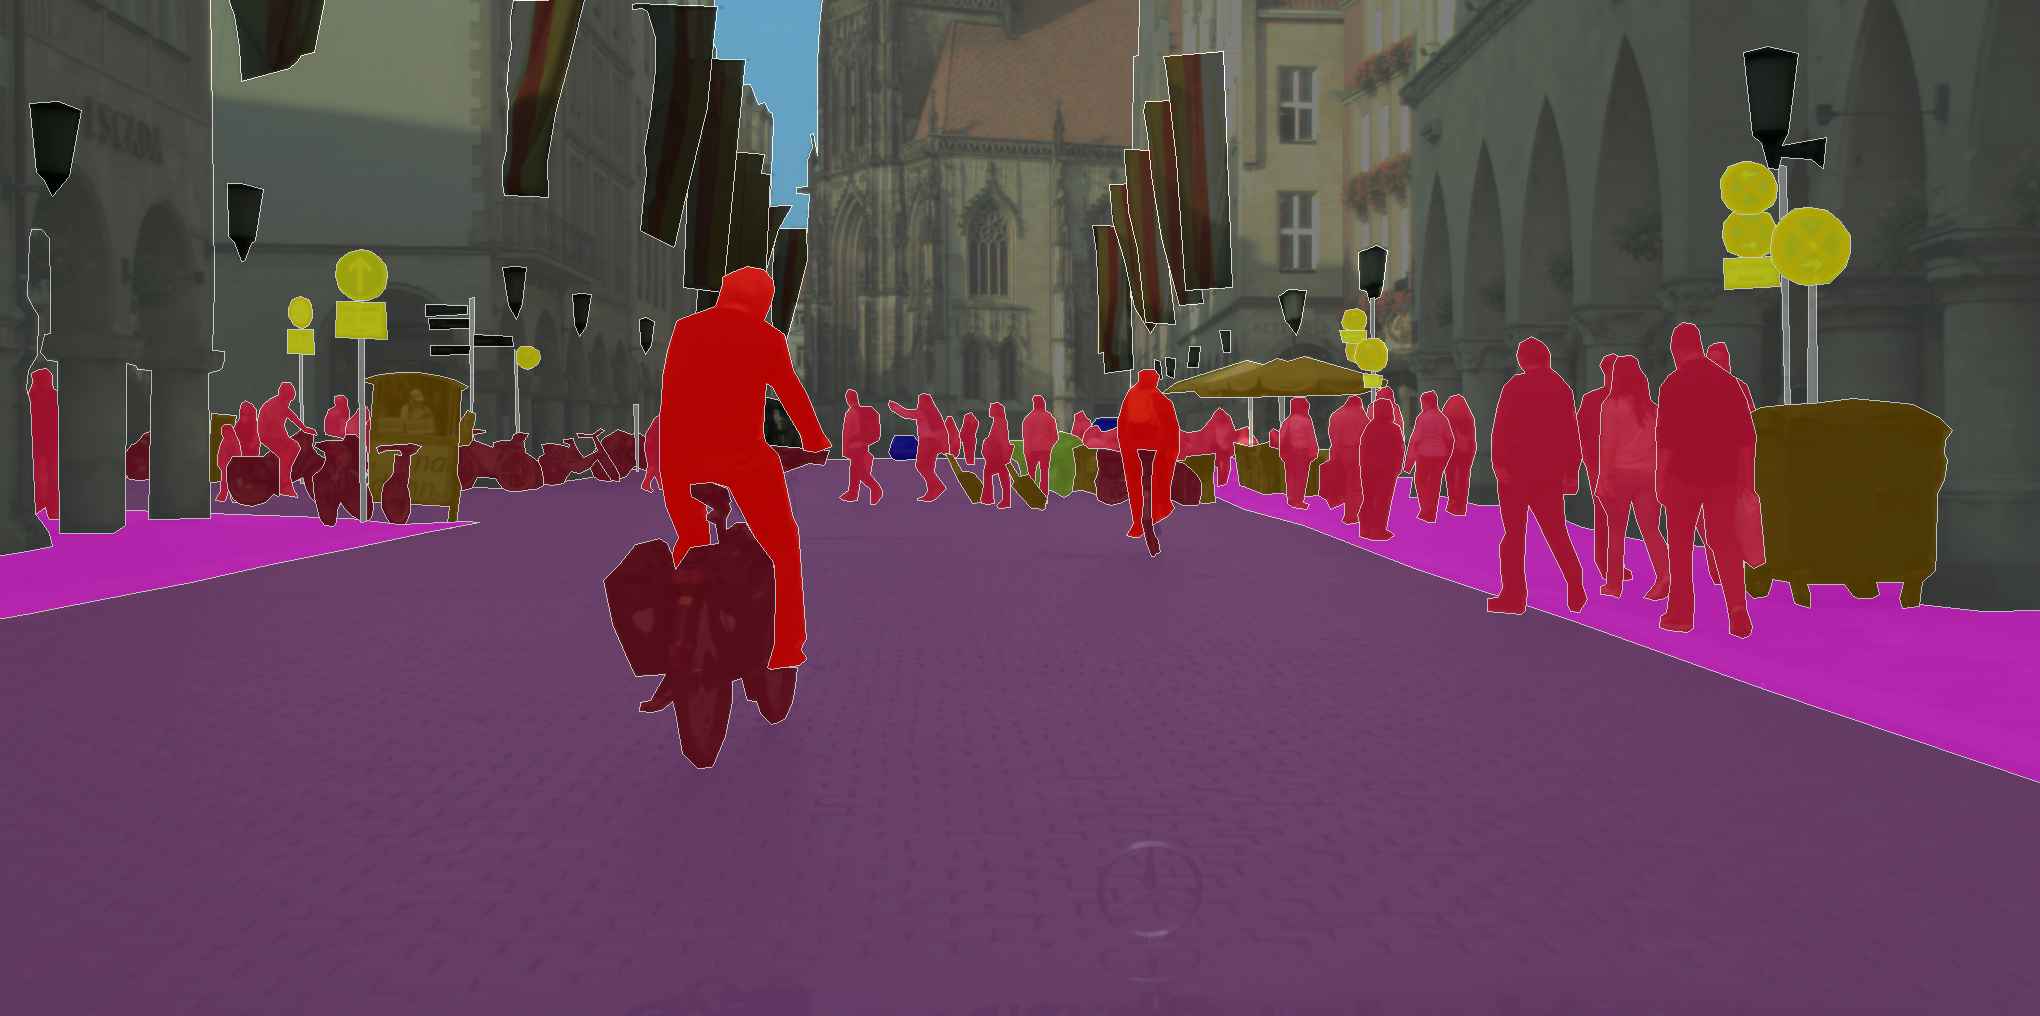
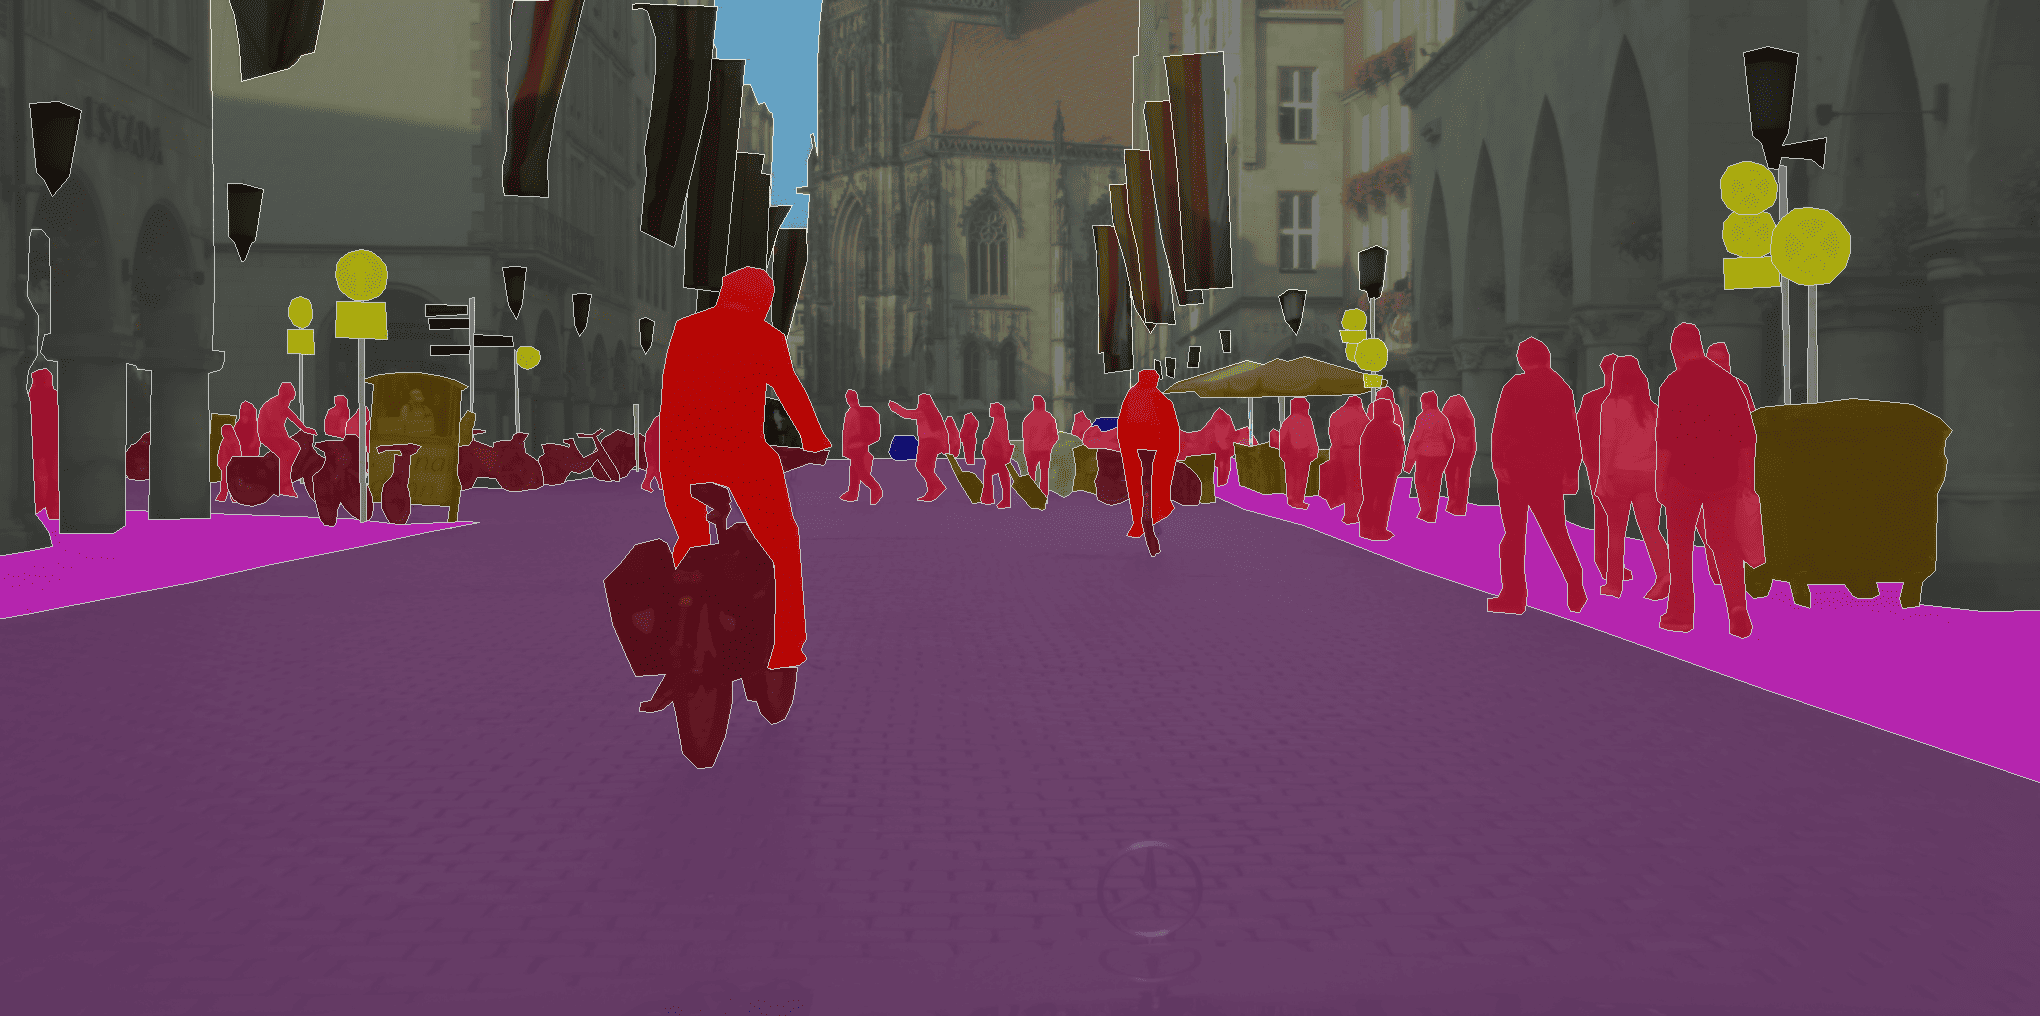
1/10 update

diff --git a/src/App.css b/src/App.css
@@ -38,7 +38,8 @@
   .header-bar {
       /* position: fixed; */
       height: 40px;
-
+      margin-left: 60px;
+      margin-right: 60px;
       background-color: #fff;
       display: flex;
       align-items: center;
@@ -54,7 +55,7 @@
   .header-bar-translation {
       display: flex;
       margin-left: auto;
-      margin-right: 20px;
+      margin-right: 15px;
 
   }
 
@@ -77,7 +78,7 @@
   }
 
   .landingPage-section {
-      height: 100vh;
+      /* height: 100vh; */
       display: flex;
       justify-content: center;
       align-items: top;
@@ -123,6 +124,7 @@
   .landingPage-section2-box {
       width: 100%;
       overflow-x: hidden;
+      margin-bottom: 200px;
 
   }
 
@@ -132,7 +134,7 @@
       align-items: center;
       justify-content: center;
       /* background-color: ; */
-      margin: 10px auto 0 auto;
+      margin: 0 auto 0 auto;
       color: #002766;
 
   }
@@ -153,8 +155,9 @@
   }
 
   .about-section1 {
-      margin-left: 40px;
-      margin-right: 40px;
+      margin-left: 80px;
+      margin-right: 80px;
+      /* border: 1px springgreen solid; */
   }
 
   .about-one-section {
@@ -163,6 +166,9 @@
       display: flex;
       align-items: center;
       justify-content: center;
+      overflow-y: hidden;
+      overflow-x: hidden;
+      padding-top: 200px;
   }
 
   .about-section1-card-description-section {
@@ -171,7 +177,7 @@
 
   .about-section1-card-description-text {
       white-space: pre-wrap;
-      margin-left: 20px;
+      margin-left: 40px;
 
   }
 
@@ -206,7 +212,7 @@
   }
 
   .about-section1-card-title {
-    margin-top: 20px;
+      margin-top: 20px;
       font-size: 2rem;
       font-weight: bold;
       width: 80%;
@@ -245,19 +251,6 @@
       transition: transform 0.5s ease, opacity 0.5s ease;
   }
 
-
-
-
-
-
-  /* .about-section1-card-description-section {
-      height: 100vh;
-      display: flex;
-      justify-content: center;
-      align-items: top;
-      transition: transform 1s, opacity 1s;
-  } */
-
   .about-section1-card-description-hidden {
       opacity: 0;
       transform: translateY(100px);
@@ -269,7 +262,7 @@
       display: flex;
       justify-content: center;
       align-items: center;
-      width: 100%;
+      /* width: 100%; */
 
   }
 
@@ -277,23 +270,29 @@
       text-align: center;
       width: 50%;
       height: auto;
-      line-height: 1.5rem;
+      line-height: 1.7rem;
       margin-bottom: 30px;
+      font-size: 1.5rem;
   }
 
-  .about-text>ul>li {
+  .about-text>ul {
       list-style: none;
+      margin-top: 40px;
+      font-size: 1.2rem;
   }
 
 
   /* .about-section1 { */
-      /* width: 100%;
+  /* width: 100%;
       display: flex;
       justify-content: space-between;
       align-items: flex-start;
     
   } */
-
+  .about-section1-card-total {
+    min-width: 150px;
+    width: 50vw;
+  }
 
   .about-section1-card {
       display: flex;
@@ -406,6 +405,8 @@
 
   .footer-bar {
       position: relative;
+      margin-left: 60px;
+      margin-right: 60px;
       width: 100%;
       height: 80px;
       background-color: #fff;
@@ -424,12 +425,12 @@
       position: absolute;
       left: 50%;
       top: 50%;
-      transform: translate(-50%, -50%);
+      transform: translate(calc(-50% - 60px), -50%);
   }
 
   .footer-bar-copyright {
       position: absolute;
-      right: 20px;
+      right: 140px;
       bottom: 10px;
       font-size: 0.8rem;
   }
@@ -437,6 +438,108 @@
   .footer-bar-language {
       position: absolute;
       width: 160px;
-      right: 0px;
+      right: 110px;
       top: 10px;
+  }
+
+  @media (max-width: 700px) {
+      .header-bar {
+          margin-left: 20px;
+          margin-right: 20px;
+      }
+
+      .header-bar-button {
+          font-size: 1.2rem;
+          margin: 0 10px 0 10px;
+      }
+
+      .landingPage-section1-name {
+          /* position: absolute; */
+          font-size: 3rem;
+          /* font-weight: 200; */
+          /* top: 35vh; */
+          left: 30px;
+
+      }
+
+      .landingPage-section1-position {
+          font-size: 1.5rem;
+          top: 45vh;
+          left: 30px;
+          color: #0050b3;
+          width: calc(80vw);
+      }
+
+      .landingPage-section2-story {
+          line-height: 1.4;
+          width: 80%;
+      }
+
+      .footer-bar {
+          margin-left: 20px;
+      }
+
+      .footer-bar-copyright {
+          right: 55px;
+          bottom: 10px;
+          font-size: 0.8rem;
+      }
+
+      .footer-bar-language {
+          width: 160px;
+          right: 25px;
+          top: 10px;
+      }
+
+      .footer-bar-return-button {
+          position: absolute;
+          left: 50%;
+          top: 50%;
+          transform: translate(calc(-50% - 15px), -50%);
+      }
+
+      .contact-section-text {
+          /* padding-top: 20px; */
+          color: #ffffff;
+          width: 80%;
+          text-align: center;
+
+
+      }
+
+      .about-text {
+          width: 70%;
+          margin-bottom: 30px;
+          font-size: 1.5rem;
+      }
+
+      .about-one-section {
+          /* background-color: pink; */
+          flex-direction: column-reverse;
+          padding-top: 0;
+          height: 120vh;
+          min-height: 900px;
+      }
+
+      .about-section1 {
+          margin-left: 35px;
+          margin-right: 35px;
+          /* border: 1px springgreen solid; */
+      }
+
+      .about-section1-card-description-text {
+          margin-left: 0;
+          /* width: 100vw; */
+      }
+
+      .about-section1-card-title {
+          margin-top: 40px;
+          font-size: 1.5rem;
+          width: 100%;
+      }
+      .about-section1-card-total {
+        /* min-width: 150px; */
+        width: 80vw;
+      }
+
   }

diff --git a/src/components/About_cn.jsx b/src/components/About_cn.jsx
@@ -186,7 +186,7 @@ const About_cn = () => {
   const sections = [];
   cardDataList.forEach((value, index) => {
     sections.push(
-      <div style={{ minWidth: "150px", width: "50vw" }}>
+      <div className="about-section1-card-total">
         <div className="about-section1-card">
           <img
             src={value.image}
@@ -203,11 +203,11 @@ const About_cn = () => {
     <div className="about">
       <div className="about-section-text">
         <div className="about-text">
-          环游世界，通过创新技术和创造性解决方案启发并赋能人们。
+          环游世界，通过创新技术和创造性解决方案启发并激励人们的能力。
           <ul>
             <li>- 人工智能硕士，毕业于新南威尔士大学。</li>
             <li>- 精通智能算法的全栈开发。</li>
-            <li>- 将技术与艺术融合，创造有影响力的解决方案的创作者。</li>
+            <li>- 融合技术与艺术的创造者，提供有影响力的解决方案。</li>
           </ul>
         </div>
       </div>

diff --git a/src/components/LandingPage_cn.jsx b/src/components/LandingPage_cn.jsx
@@ -63,7 +63,7 @@ const LandingPage_cn = () => {
           <li>在智慧城市应用中实施精确图像分割，优化城市管理。</li>
           <li>使用 ReactJS 完成企业网站重组，提升用户体验。</li>
         </ul>
-
+        <br />
         <p>
           此外，他还积极参与数据驱动的挑战项目（如Kaggle），积累了宝贵的实践经验。
         </p>
@@ -72,7 +72,7 @@ const LandingPage_cn = () => {
           他认为，技术不仅是一种工具，更是一种改变世界的力量。通过技术创新，张兆烨
           致力于探索新的可能性，并将解决方案转化为实实在在的影响。
         </p>
-        <br/>
+        <br />
         <p>
           如果您对他的经历或项目感兴趣，请随时通过电子邮件联系他，或访问他的
           GitHub 了解更多信息！

diff --git a/public/index.html b/public/index.html
@@ -24,7 +24,7 @@
       work correctly both with client-side routing and a non-root public URL.
       Learn how to configure a non-root public URL by running `npm run build`.
     -->
-    <title>React App</title>
+    <title>Jeff Zhang's website</title>
   </head>
   <body>
     <noscript>You need to enable JavaScript to run this app.</noscript>

diff --git a/src/components/About.jsx b/src/components/About.jsx
@@ -192,7 +192,7 @@ const About = () => {
   const sections = [];
   cardDataList.forEach((value, index) => {
     sections.push(
-      <div style={{ minWidth: "150px", width: "50vw" }}>
+      <div className="about-section1-card-total">
         <div className="about-section1-card">
           <img
             src={value.image}

diff --git a/src/components/LandingPage.jsx b/src/components/LandingPage.jsx
@@ -78,7 +78,7 @@ const LandingPage = () => {
             user experience.
           </li>
         </ul>
-
+        <br />
         <p>
           In addition, Zhaoye actively engages in data-driven challenge projects
           (like Kaggle), gaining valuable practical experience.
